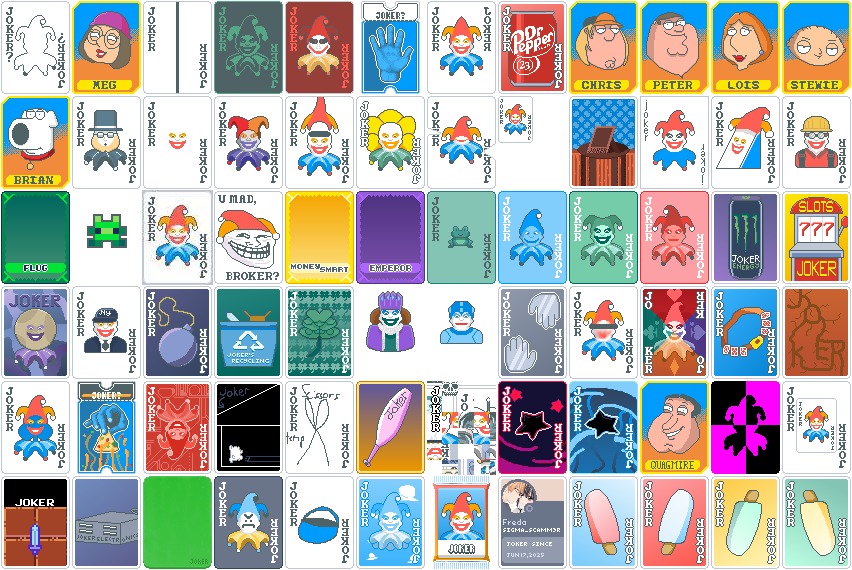
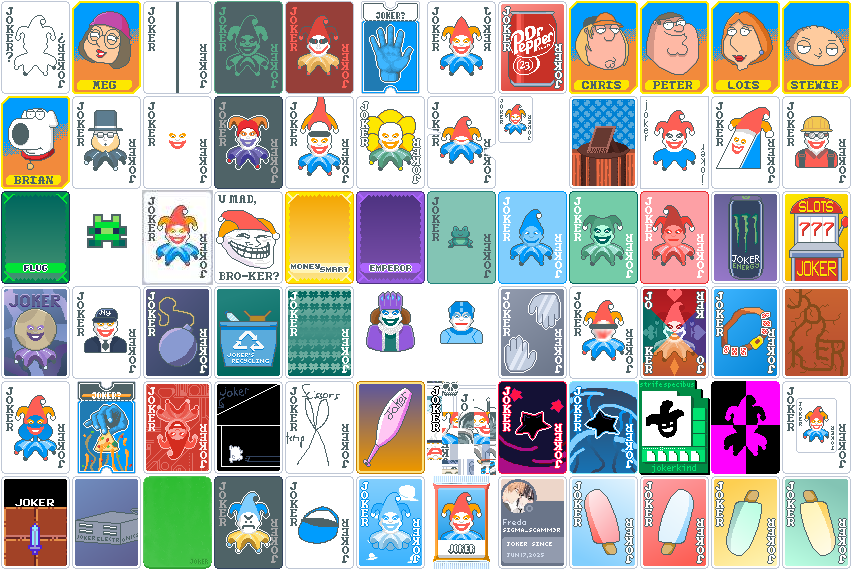
FIRST NEW JOKER
YIPPEE

diff --git a/CHANGELOG.MD b/CHANGELOG.MD
@@ -22,12 +22,18 @@ and this project adheres to [Semantic Versioning](https://semver.org/spec/v2.0.0
 - New rarity for Jokers, "Mostly Negative"
 
 ### Changed
-- Reworked internal credit system
-- Hydrop0x now referred to as AltF4
-- Adjusted collection ordering
+- General Changes
+    - Reworked internal credit system
+    - Hydrop0x now referred to as AltF4
+    - Adjusted collection ordering
+    
+- Art Changes
+    - Updated "Joker?"'s color pallete
+    - Added a hyphen in Irritating Joker's sprite
+    
 
 - Balance Changes
-    - Family Guy rarity rate nerfed from 2% -> 1%
+    - Family Guy rarity rate nerfed from 2% -> 0.5%
     - Adjusted Family Deck rate from X10 -> X20 to compensate for above change
     - Clouds Tarot nerfed from 3 -> 2
     - Irritating Joker rartity changed from Common -> Uncommon
@@ -35,12 +41,22 @@ and this project adheres to [Semantic Versioning](https://semver.org/spec/v2.0.0
     - Misplaced now evolves into Really Misplaced
     - Irritating Joker now gives +0.9 bonus Mult
 
-## Fixed
+### Fixed
 - Being unable to select Jokers with bonus Joker slots in booster packs without free space
 - Unnacounted Unranked enhancements sending chips into the deep negatives with Jokerekoj
 
-## Removed
+### Removed
 - Chilli & AltF4 from Mod Menu Credits (Only in credits tab)
+
+## [1.1.1] - 2025-08-14
+
+### Fixed
+- Talisman being in the JSON as a dependency
+
+## [1.1.0] - 2025-08-04
+
+### Fixed
+- Talisman being required to load the mod
 
 ## [1.0.0] - 2025-07-01
 
